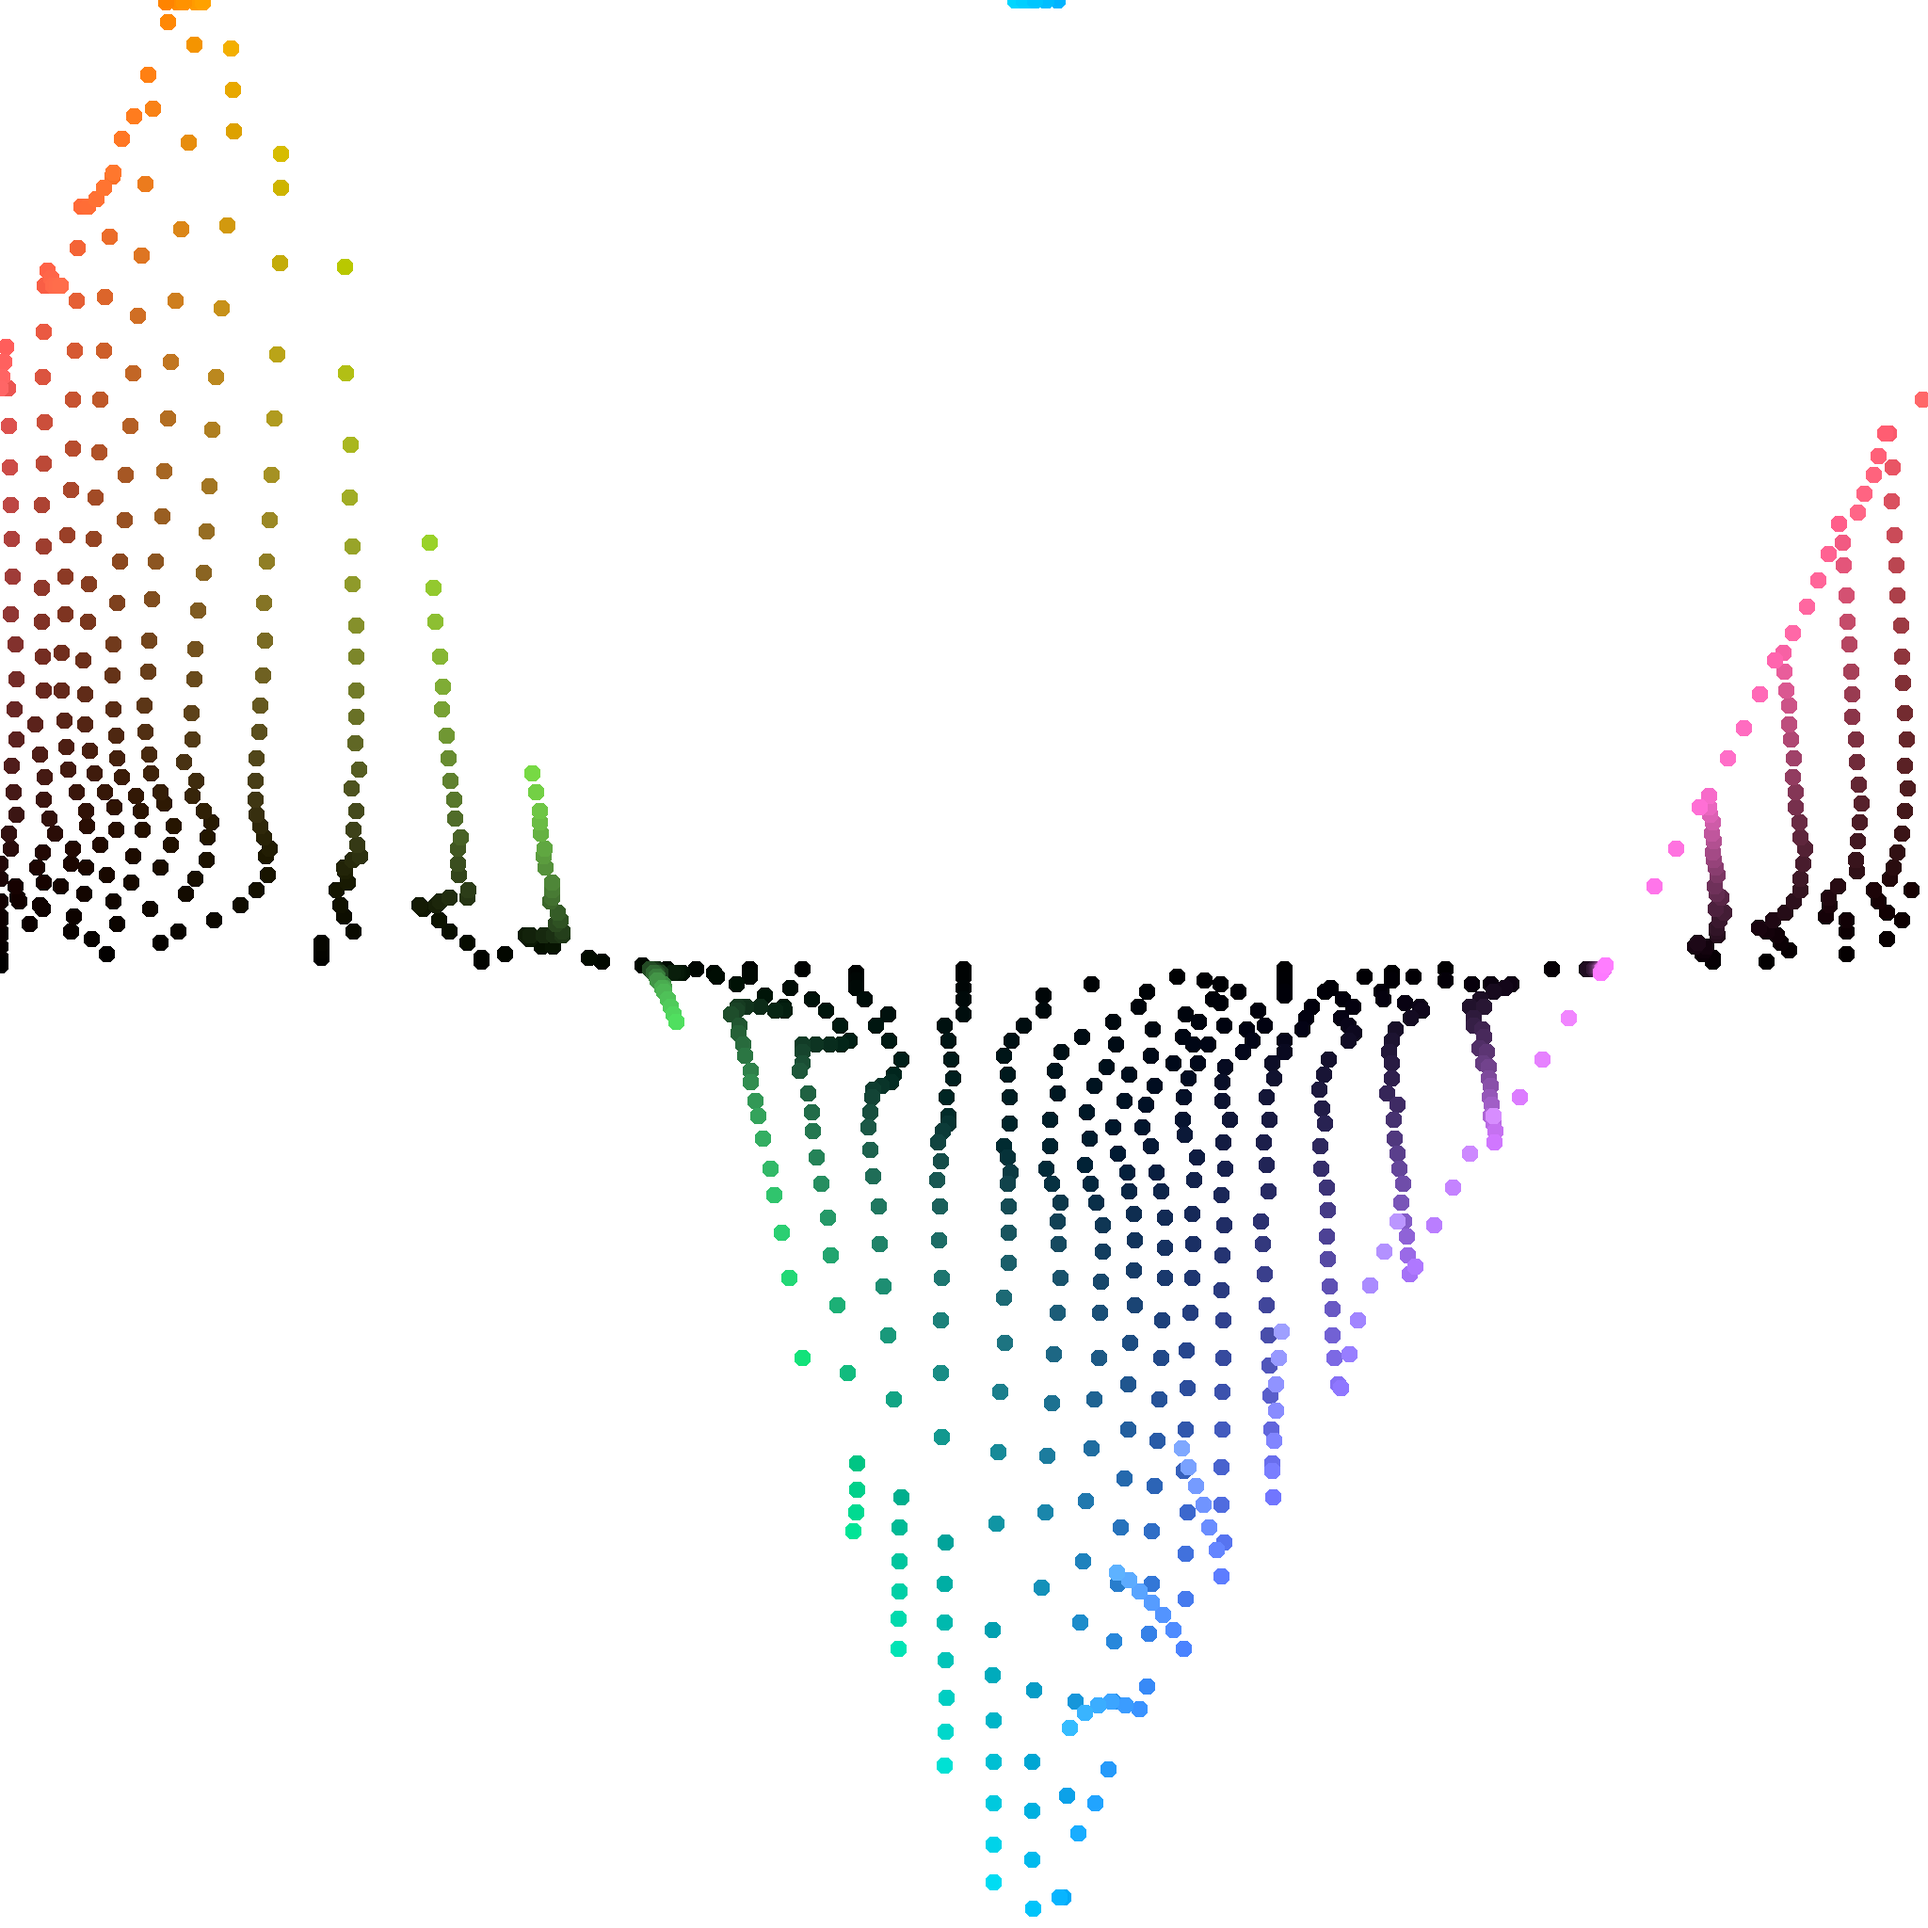
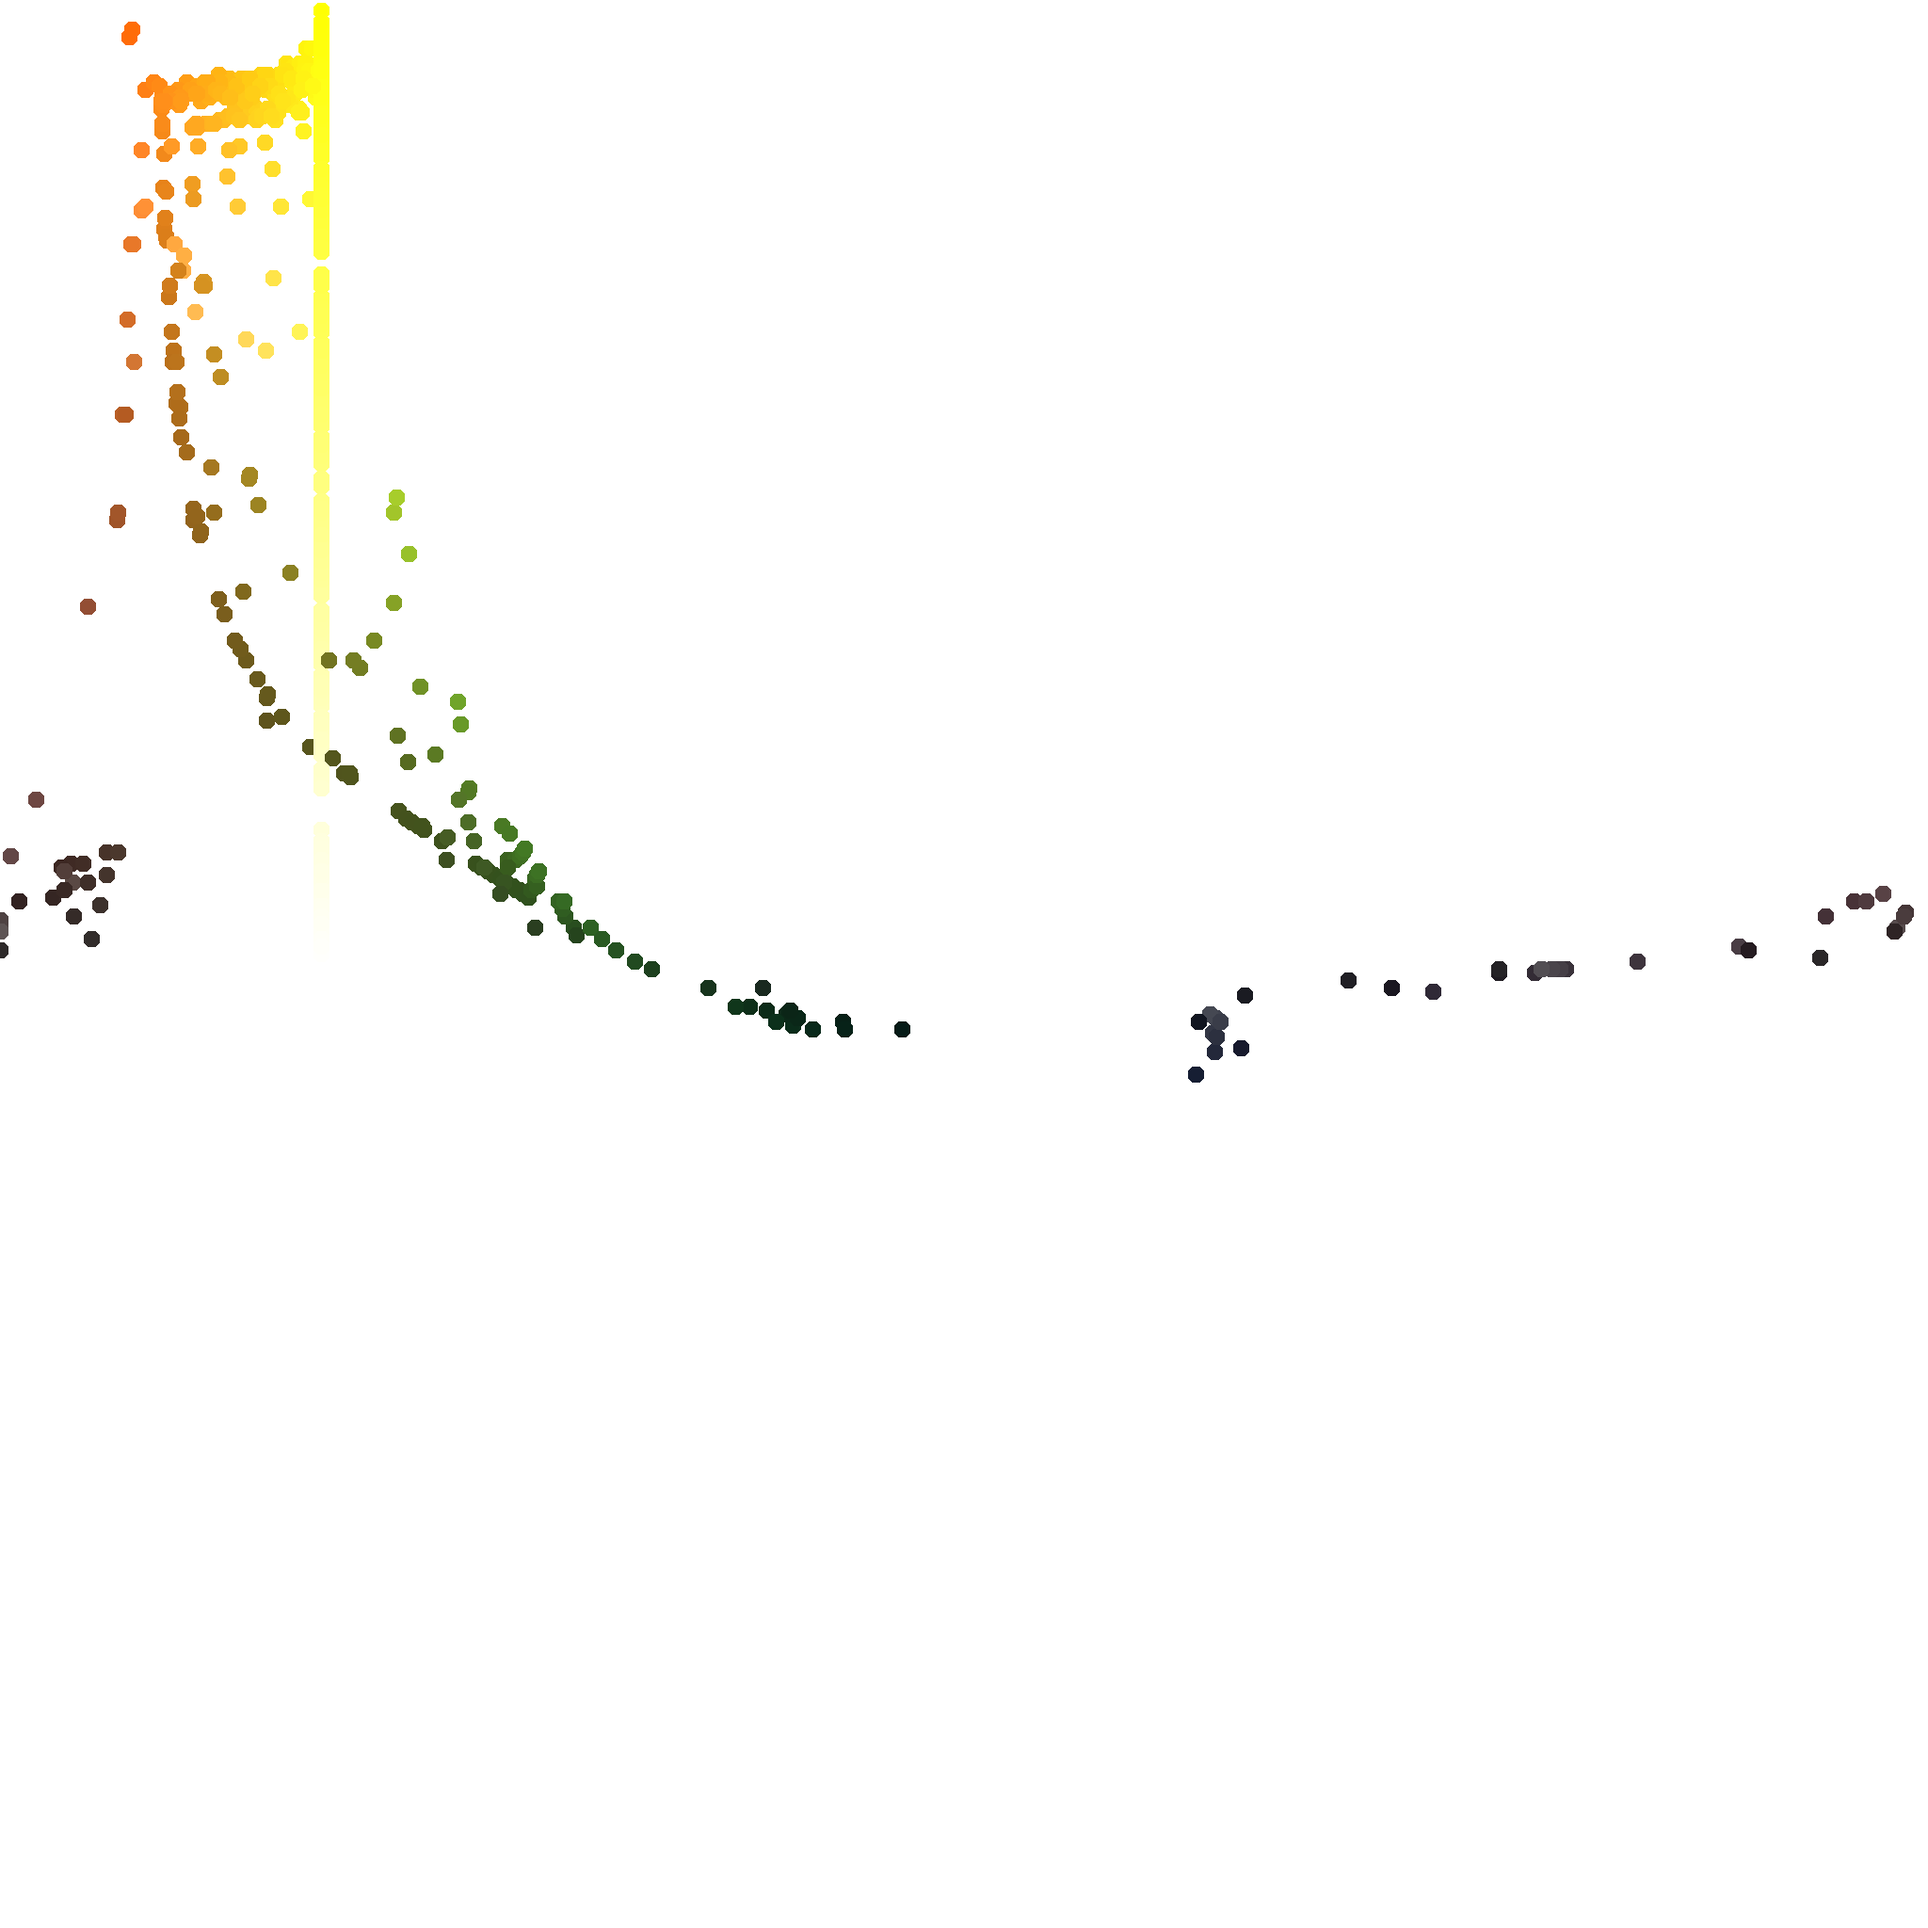
graph funkt

diff --git a/Scripts/SSIM.cs b/Scripts/SSIM.cs
@@ -35,69 +35,78 @@ public partial class SSIM : Node
 		Calculate_Percentile(0.999f);
 	}
 
-	public void Create_Histogram_Delta_Hue()
-	{
-		int M = i.GetWidth();
-		int N = i.GetHeight();
+	public void Create_Histogram_Delta_Hue_Chroma()
+    {
+        int M = i.GetWidth();
+        int N = i.GetHeight();
 
-		Image chart = Image.CreateEmpty(_graphRes, _graphRes, false, Image.Format.Rgb8);
-		chart.Fill(Colors.White);
+        Image chart = Image.CreateEmpty(_graphRes, _graphRes, false, Image.Format.Rgb8);
+        chart.Fill(Colors.White);
 
-		(float, float)[] pairs = new (float, float)[M * N];
+        //TODO: Draw Grid
 
-		for (int x = 0; x < M; x++)
-		{
-			for (int y = 0; y < N; y++)
-			{
-				Color c = i.GetPixel(x, y);
+        (float, float)[] pairs = new (float, float)[M * N];
 
-				float delta = i.GetPixel(x, y).R - i.GetPixel(x, y).B;
+        CreateGraph(M, N, chart, pairs);
 
-				int ix = 0;
-				int iy = 0;
+        string imagePath = "res://graph_d.png";
+        chart.SavePng(imagePath);
+    }
 
-				ix = (int)(c.H * (_graphRes - 1));
+    private void CreateGraph(int M, int N, Image chart, (float, float)[] pairs)
+    {
+        for (int x = 0; x < M; x++)
+        {
+            for (int y = 0; y < N; y++)
+            {
+                Color c = i.GetPixel(x, y);
 
-				if (delta <= 0.0)
-				{
-					iy = _graphRes - ((int)(delta * ((_graphRes - 1) / 2)) + ((_graphRes - 1) / 2));
-				}
-				else
-				{
-					iy = (_graphRes - (int)(delta * ((_graphRes - 1) / 2))) - ((_graphRes - 1) / 2);
-				}
+                float delta = i.GetPixel(x, y).R - i.GetPixel(x, y).B;
 
-				if (ix >= _graphRes || ix < 0)
-				{
-					ix = 0;
-					// GD.PushWarning("Hue was greater than 1");
-				}
-				if (iy >= _graphRes || iy < 0)
-				{
-					iy = 0;
-					// GD.PushWarning("Delta value was greater than 1: " + delta);
-				}
+                int ix = 0;
+                int iy = 0;
 
-				for (int rx = -_pointRadius; rx <= _pointRadius; rx++)
-				{
-					for (int ry = -_pointRadius; ry <= _pointRadius; ry++)
-					{
-						if (new Vector2(rx, ry).Length() >= _pointRadius) continue;
-						if (rx + ix >= _graphRes || rx + ix < 0) continue;
-						if (ry + iy >= _graphRes || ry + iy < 0) continue;
-						chart.SetPixel(ix + rx, iy + ry, c);
-					}
-				}
+                ix = (int)(c.H * (_graphRes - 1));
 
-				pairs[x * N + y] = (c.H, delta);
-			}
-		}
+                if (delta <= 0.0)
+                {
+                    iy = _graphRes - ((int)(delta * ((_graphRes - 1) / 2)) + ((_graphRes - 1) / 2));
+                    // c = Colors.Blue;
+                }
+                else
+                {
+                    iy = _graphRes - (int)(delta * ((_graphRes - 1) / 2)) - ((_graphRes - 1) / 2);
+                    // c = Colors.Red;
+                }
 
-		string imagePath = "res://chart_test.png";
-		chart.SavePng(imagePath);
-	}
+                if (ix >= _graphRes || ix < 0)
+                {
+                    ix = 0;
+                    // GD.PushWarning("Hue was greater than 1");
+                }
+                if (iy >= _graphRes || iy < 0)
+                {
+                    iy = 0;
+                    // GD.PushWarning("Delta value was greater than 1: " + delta);
+                }
 
-	public void Calculate_Percentile(float p)
+                for (int rx = -_pointRadius; rx <= _pointRadius; rx++)
+                {
+                    for (int ry = -_pointRadius; ry <= _pointRadius; ry++)
+                    {
+                        if (new Vector2(rx, ry).Length() >= _pointRadius) continue;
+                        if (rx + ix >= _graphRes || rx + ix < 0) continue;
+                        if (ry + iy >= _graphRes || ry + iy < 0) continue;
+                        chart.SetPixel(ix + rx, iy + ry, c);
+                    }
+                }
+
+                pairs[x * N + y] = (c.H, delta);
+            }
+        }
+    }
+
+    public void Calculate_Percentile(float p)
 	{
 		var img = GetViewport().GetTexture().GetImage();
 		int M = img.GetWidth();
